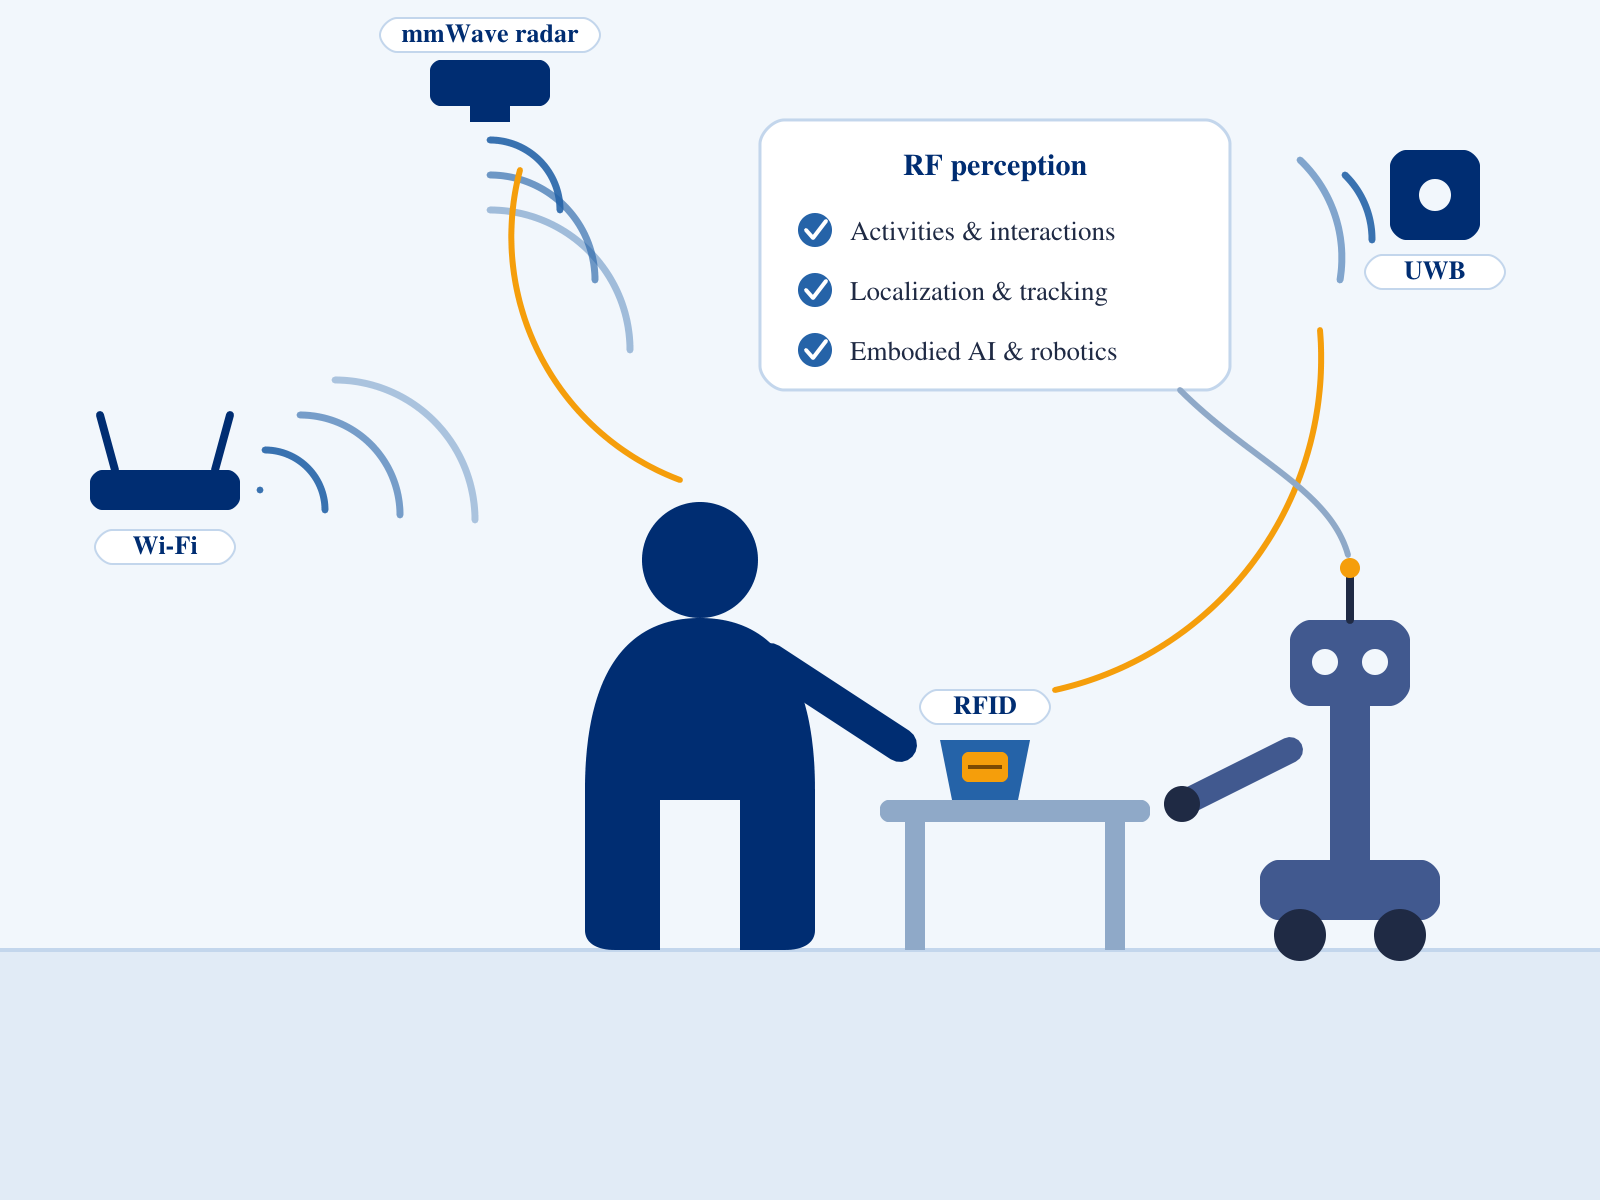
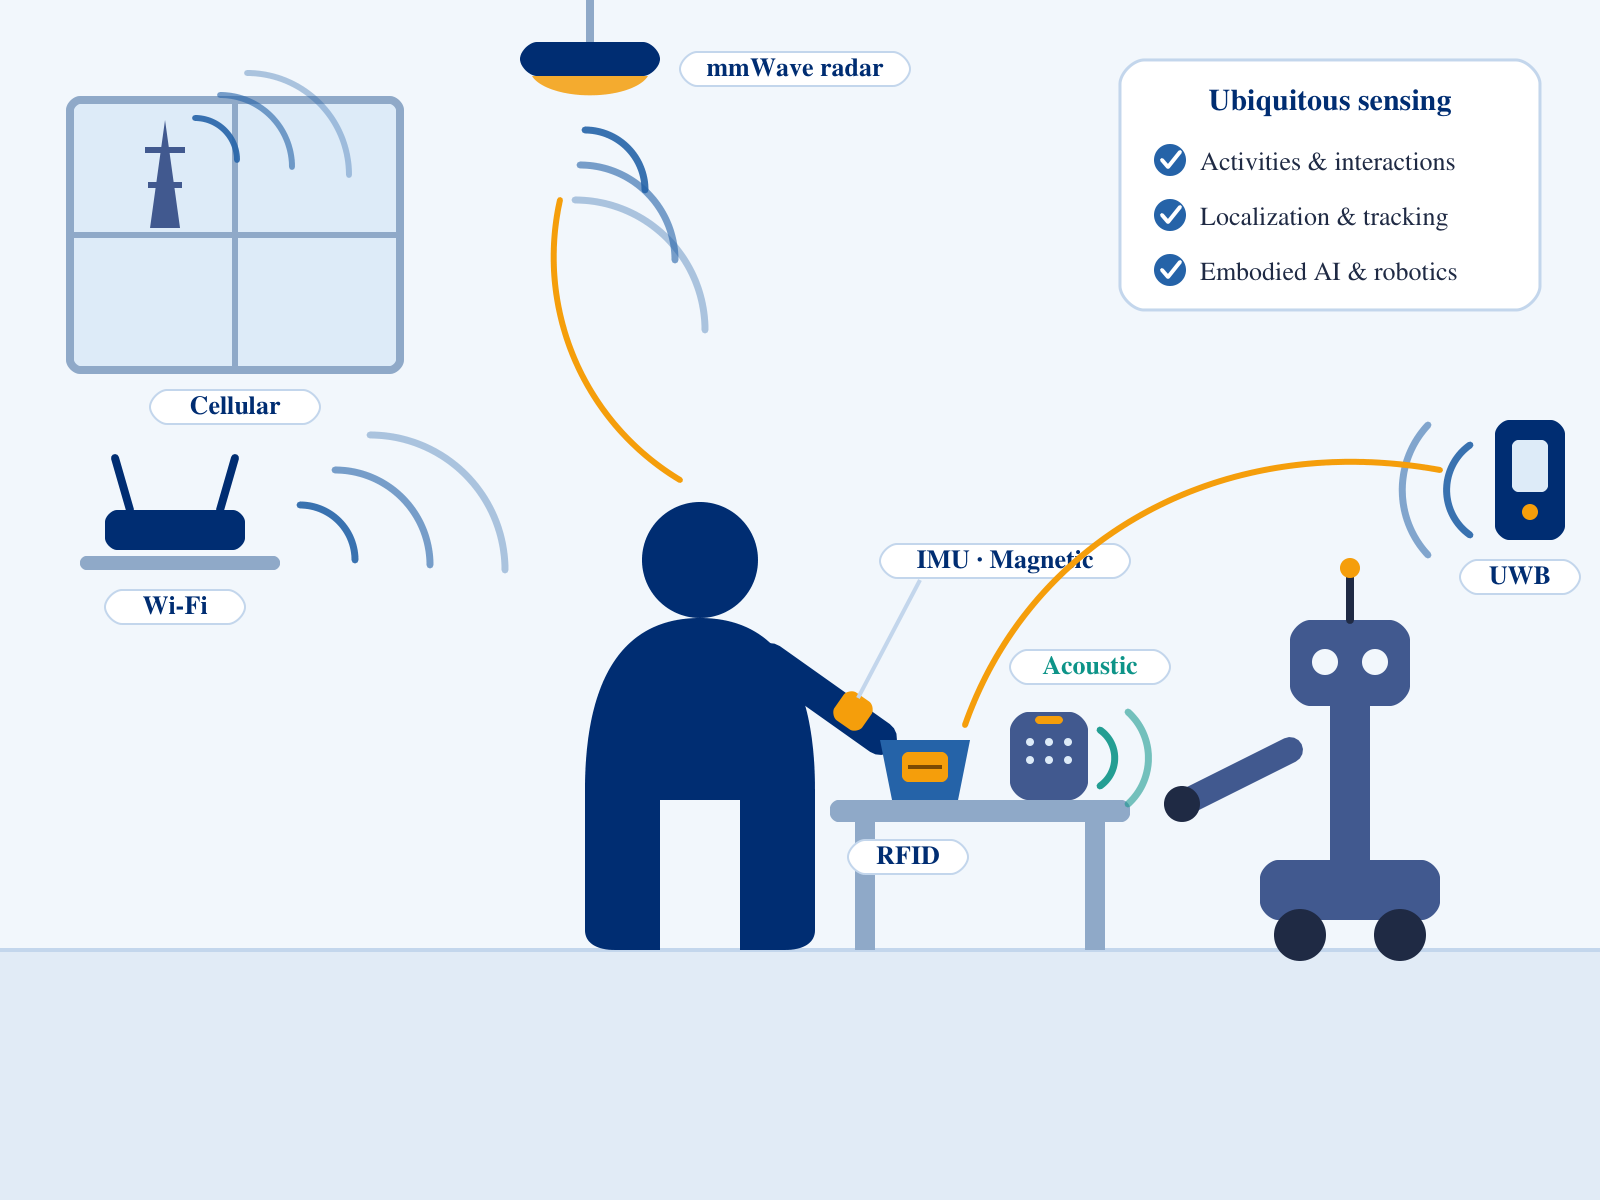
content: Enrich sensing concept figure with more modalities in a smart-home scene
- Add cellular (tower through window), acoustic (smart speaker), IMU/magnetic
  (smartwatch) to the concept figure; embed mmWave radar in a smart ceiling
  light and UWB in a smart wall panel
- Sync modality list in area description and sensing overview

diff --git a/src/content/research/index.md b/src/content/research/index.md
@@ -10,9 +10,9 @@ areas:
             alt: "Placeholder"
     - id: "sensing"
       name: "Sensing Systems"
-      description: "We build ubiquitous and wireless sensing systems that turn everyday radio signals — such as mmWave radar, RFID, Wi-Fi, and UWB — into rich sensors for people, objects, and environments. By jointly designing wireless hardware, signal processing, and learning-based models, we push the limit of what radio signals can perceive, from locating and tracking targets to understanding human behaviors, interactions, and environment states. We further explore the intersection of wireless sensing with embodied AI and robotics, where pervasive RF perception equips intelligent agents with a complementary sense that preserves privacy and stays robust where cameras fall short."
+      description: "We build ubiquitous and wireless sensing systems that turn everyday wireless and sensor signals — such as mmWave radar, RFID, Wi-Fi, UWB, cellular, acoustic, magnetic, and inertial (IMU) signals — into rich sensors for people, objects, and environments. By jointly designing wireless hardware, signal processing, and learning-based models, we push the limit of what these signals can perceive, from locating and tracking targets to understanding human behaviors, interactions, and environment states. We further explore the intersection of wireless sensing with embodied AI and robotics, where pervasive RF perception equips intelligent agents with a complementary sense that preserves privacy and stays robust where cameras fall short."
       pubLimit: 4
       image:
           - src: "sensing_concept.png"
-            alt: "Concept of ubiquitous wireless sensing: RF signals perceiving people, objects, and robots"
+            alt: "Concept of ubiquitous sensing in a smart home: cellular, Wi-Fi, mmWave, UWB, RFID, acoustic, and IMU signals perceiving people, objects, and robots"
 ---

diff --git a/src/content/research/sensing/index.md b/src/content/research/sensing/index.md
@@ -4,6 +4,6 @@ title: 'Sensing Systems'
 
 ## Overview
 
-We build ubiquitous and wireless sensing systems that turn everyday radio signals — such as mmWave radar, RFID, Wi-Fi, and UWB — into rich sensors for people, objects, and environments. By jointly designing wireless hardware, signal processing, and learning-based models, we push the limit of what radio signals can perceive, from locating and tracking targets to understanding human behaviors, interactions, and environment states.
+We build ubiquitous and wireless sensing systems that turn everyday wireless and sensor signals — such as mmWave radar, RFID, Wi-Fi, UWB, cellular, acoustic, magnetic, and inertial (IMU) signals — into rich sensors for people, objects, and environments. By jointly designing wireless hardware, signal processing, and learning-based models, we push the limit of what these signals can perceive, from locating and tracking targets to understanding human behaviors, interactions, and environment states.
 
 We further explore the intersection of wireless sensing with embodied AI and robotics, where pervasive RF perception equips intelligent agents with a complementary sense that preserves privacy and stays robust where cameras fall short — through occlusion, darkness, and beyond the line of sight.
